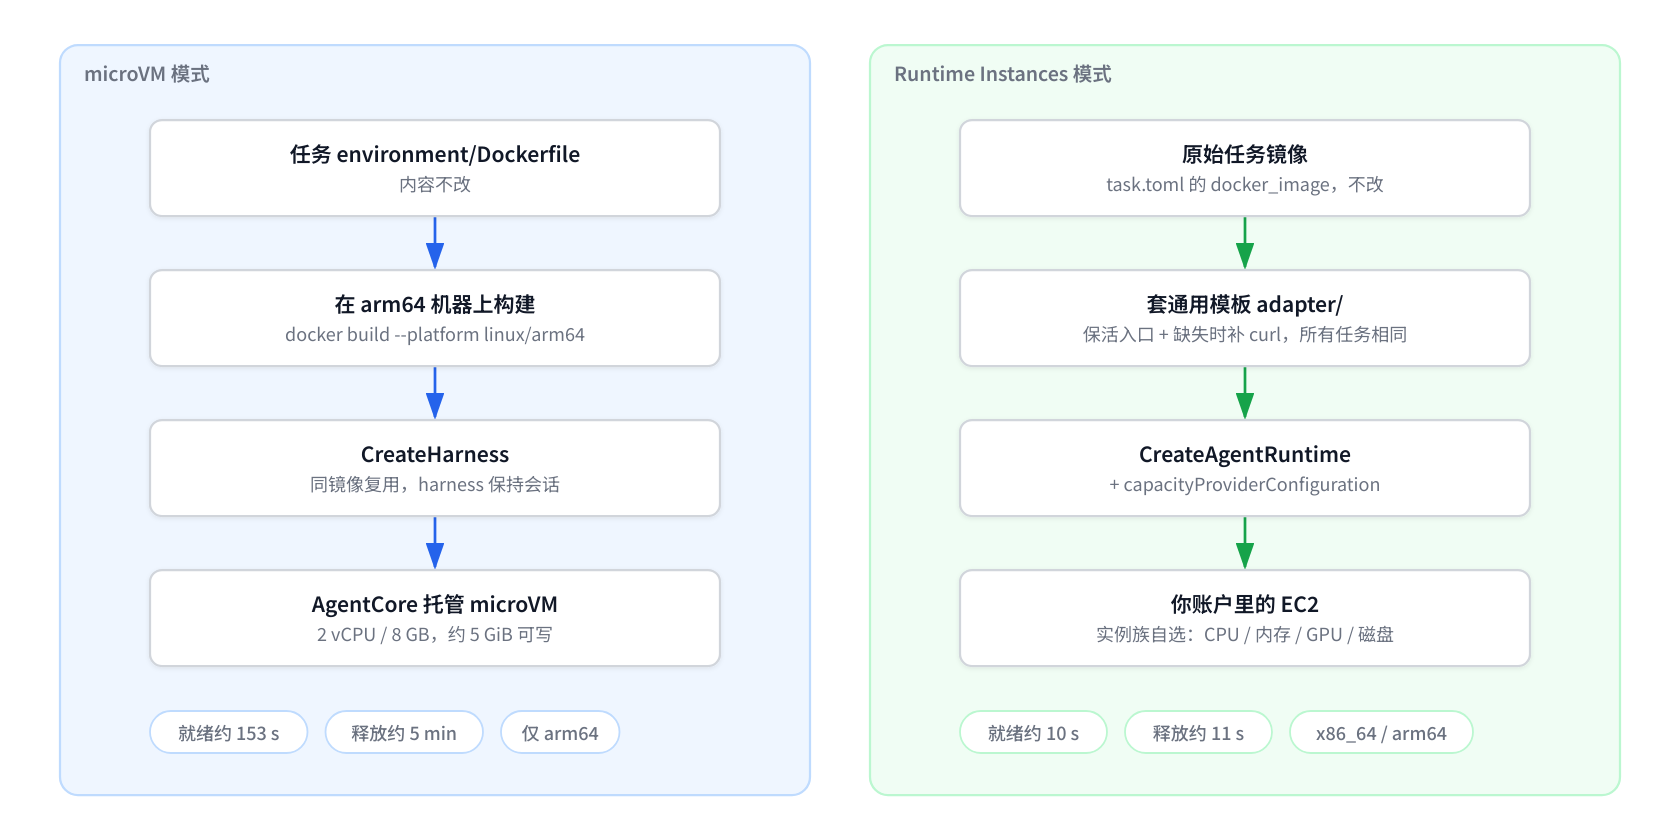
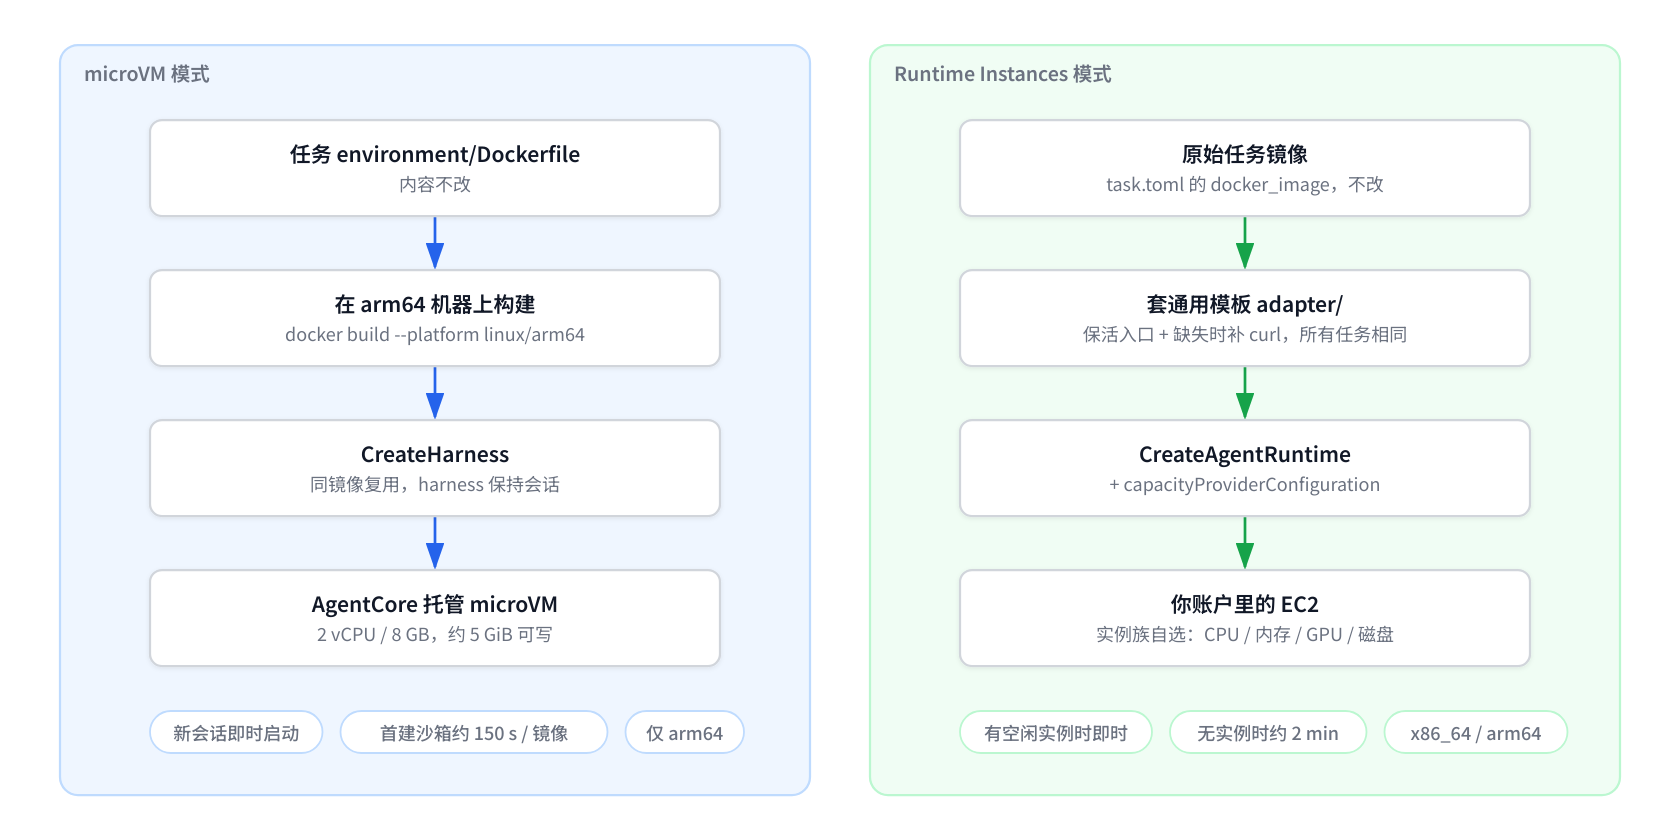
Startup times: separate one-time sandbox creation from per-trial session start

Changed region(s): [[0.5881, 0.8357, 0.9286, 0.8976], [0.0929, 0.8357, 0.4333, 0.8976]]

diff --git a/docs/limitations.md b/docs/limitations.md
@@ -82,9 +82,11 @@
 
 | 阶段 | microVM | Instances（c7i.xlarge） |
 |---|---|---|
-| 首次创建沙箱到 READY | 约 150 s | 约 10 s |
-| 复用已有沙箱 | 约 1 s | 约 2 s |
-| 首条命令（含实例就绪） | 立即 | 实例空闲时立即；无实例时约 2 min |
+| 创建沙箱定义到 READY（每个镜像只做一次） | 约 150 s | 约 10 s |
+| 复用已有沙箱定义 | 约 1 s | 约 2 s |
+| 每个 trial 的新会话启动 | 立即 | 有空闲实例时立即；无实例时要先起 EC2，约 2 min |
+
+两种模式的"约 150 s"和"约 10 s"量的都是创建沙箱定义，每个镜像只做一次，不代表每个 trial 的启动时间。每个 trial 实际等的是新会话启动：microVM 由 AgentCore 托管，新会话立即可用；Instances 要有空闲的 EC2 实例，没有时需要先起实例，约 2 分钟。批量测试时 capacity provider 的空闲超时设为 8 小时，实例一直保持，所以没有反复冷启动。
 | 安装 Node + Claude Code + AWS SDK | 12-15 s | 约 50 s |
 
 ## Agent 与凭证
